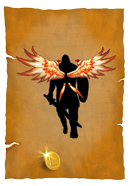
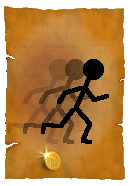
flight card, fix #197

diff --git a/web/game/mode9/js_libs/static_libs.js b/web/game/mode9/js_libs/static_libs.js
@@ -357,6 +357,13 @@ cards[115]["image"] = "bandit.png";
 cards[115]["cost"] = "20";
 cards[115]["type"] = "m";
 cards[115]["ref"] = "0";
+cards[116] = new Array();
+cards[116]["mode_id"] = "9";
+cards[116]["id"] = "116";
+cards[116]["image"] = "flight.png";
+cards[116]["cost"] = "15";
+cards[116]["type"] = "m";
+cards[116]["ref"] = "0";
 
 var units = new Array();
 units[14] = new Array();
@@ -1048,6 +1055,12 @@ procedures_mode_1[71]["id"] = "71";
 procedures_mode_1[71]["name"] = "cast_bandit";
 procedures_mode_1[71]["params"] = "card,empty_coord_my_zone";
 procedures_mode_1[71]["ui_action_name"] = "";
+procedures_mode_1[72] = new Array();
+procedures_mode_1[72]["mode_id"] = "9";
+procedures_mode_1[72]["id"] = "72";
+procedures_mode_1[72]["name"] = "cast_flight";
+procedures_mode_1[72]["params"] = "card,unit";
+procedures_mode_1[72]["ui_action_name"] = "";
 
 var cards_procedures_1 = new Array();
 cards_procedures_1[1] = new Array();
@@ -1320,6 +1333,11 @@ cards_procedures_1[54]["mode_id"] = "9";
 cards_procedures_1[54]["card_id"] = "115";
 cards_procedures_1[54]["procedure_id"] = "71";
 cards_procedures_1[54]["id"] = "54";
+cards_procedures_1[55] = new Array();
+cards_procedures_1[55]["mode_id"] = "9";
+cards_procedures_1[55]["card_id"] = "116";
+cards_procedures_1[55]["procedure_id"] = "72";
+cards_procedures_1[55]["id"] = "55";
 
 var units_procedures_1 = new Array();
 units_procedures_1[1] = new Array();
@@ -3440,7 +3458,7 @@ unit_features["24"]["log_key_remove"] = "";
 unit_features["25"] = new Array();
 unit_features["25"]["id"] = "25";
 unit_features["25"]["code"] = "flying";
-unit_features["25"]["log_key_add"] = "";
+unit_features["25"]["log_key_add"] = "unit_flying";
 unit_features["25"]["log_key_remove"] = "";
 
 var building_features = new Array();
@@ -5060,6 +5078,12 @@ card_names["1"]["115"]["card_id"] = "115";
 card_names["1"]["115"]["language_id"] = "1";
 card_names["1"]["115"]["name"] = "Bandit";
 card_names["1"]["115"]["description"] = "Summon an NPC bandit in your zone. He will fight for whoever gives more money every turn";
+card_names["1"]["116"] = new Array();
+card_names["1"]["116"]["id"] = "191";
+card_names["1"]["116"]["card_id"] = "116";
+card_names["1"]["116"]["language_id"] = "1";
+card_names["1"]["116"]["name"] = "Flight";
+card_names["1"]["116"]["description"] = "Chosen unit can fly over obstacles";
 card_names["2"] = new Array();
 card_names["2"]["61"] = new Array();
 card_names["2"]["61"]["id"] = "41";
@@ -5379,6 +5403,12 @@ card_names["2"]["115"]["card_id"] = "115";
 card_names["2"]["115"]["language_id"] = "2";
 card_names["2"]["115"]["name"] = "Бандит";
 card_names["2"]["115"]["description"] = "Призывает Бандита, который действует сам по себе и каждый ход сражается за того, кто больше заплатит.";
+card_names["2"]["116"] = new Array();
+card_names["2"]["116"]["id"] = "192";
+card_names["2"]["116"]["card_id"] = "116";
+card_names["2"]["116"]["language_id"] = "2";
+card_names["2"]["116"]["name"] = "Полет";
+card_names["2"]["116"]["description"] = "Выбранный юнит может перелетать препятствия.";
 
 var building_names = new Array();
 building_names["1"] = new Array();
@@ -6383,6 +6413,11 @@ log_message_texts["1"]["unit_drowns"]["id"] = "126";
 log_message_texts["1"]["unit_drowns"]["code"] = "unit_drowns";
 log_message_texts["1"]["unit_drowns"]["language_id"] = "1";
 log_message_texts["1"]["unit_drowns"]["message"] = "{unit0} drowns";
+log_message_texts["1"]["unit_flying"] = new Array();
+log_message_texts["1"]["unit_flying"]["id"] = "177";
+log_message_texts["1"]["unit_flying"]["code"] = "unit_flying";
+log_message_texts["1"]["unit_flying"]["language_id"] = "1";
+log_message_texts["1"]["unit_flying"]["message"] = "{unit0} can fly";
 log_message_texts["1"]["unit_gets_attack"] = new Array();
 log_message_texts["1"]["unit_gets_attack"]["id"] = "136";
 log_message_texts["1"]["unit_gets_attack"]["code"] = "unit_gets_attack";
@@ -6824,6 +6859,11 @@ log_message_texts["2"]["unit_drowns"]["id"] = "125";
 log_message_texts["2"]["unit_drowns"]["code"] = "unit_drowns";
 log_message_texts["2"]["unit_drowns"]["language_id"] = "2";
 log_message_texts["2"]["unit_drowns"]["message"] = "{unit0} тонет в воде";
+log_message_texts["2"]["unit_flying"] = new Array();
+log_message_texts["2"]["unit_flying"]["id"] = "178";
+log_message_texts["2"]["unit_flying"]["code"] = "unit_flying";
+log_message_texts["2"]["unit_flying"]["language_id"] = "2";
+log_message_texts["2"]["unit_flying"]["message"] = "{unit0} может летать";
 log_message_texts["2"]["unit_gets_attack"] = new Array();
 log_message_texts["2"]["unit_gets_attack"]["id"] = "135";
 log_message_texts["2"]["unit_gets_attack"]["code"] = "unit_gets_attack";
